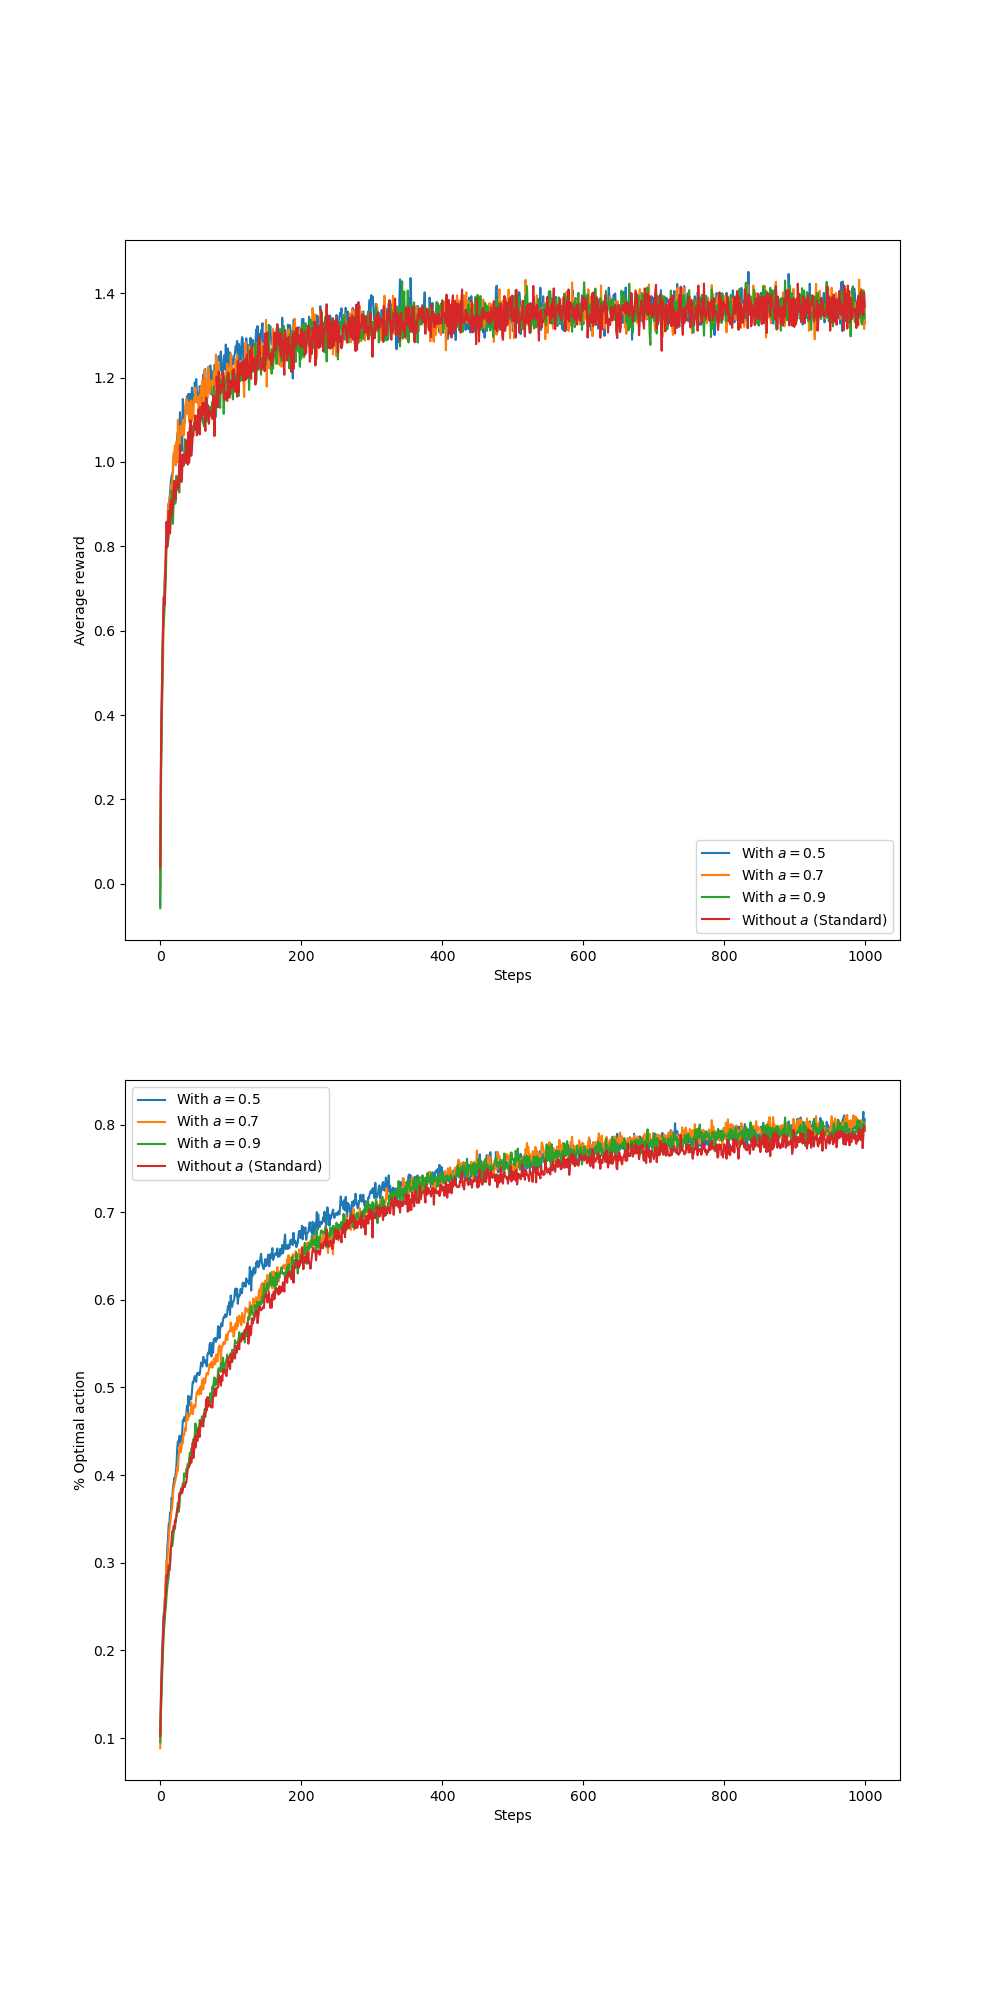
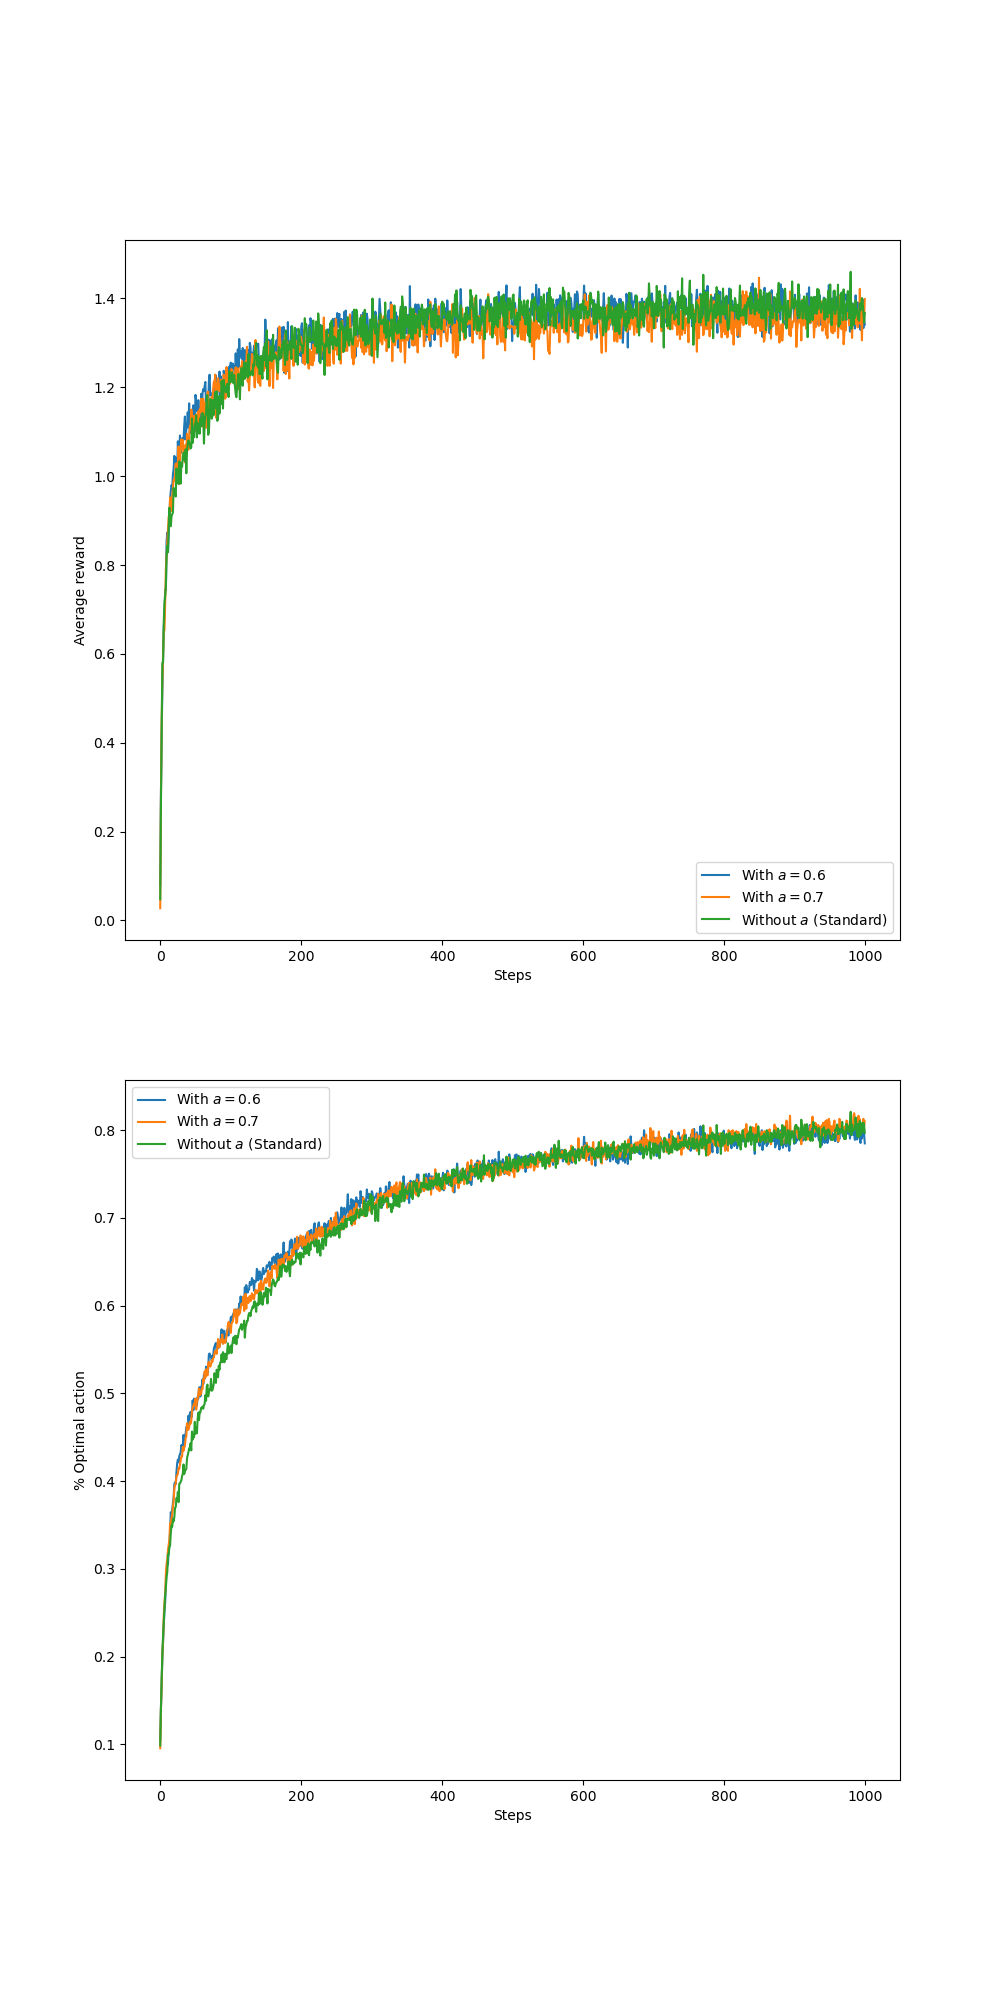
final commit

diff --git a/bandit_model.py b/bandit_model.py
@@ -58,6 +58,7 @@ class Bandit:
         self.time = 0
         self.average_reward = 0
 
+        # AAAA  ----- 
     def act(self):
         """
         Selects an action based on the current strategy.
@@ -83,7 +84,9 @@ class Bandit:
         best_action = np.random.choice(np.where(self.q_estimation == q_best)[0])
         return best_action
 
-    def step(self, action, external_reward=None):
+    def step(self, 
+             action, 
+             external_reward=None):
         """
         Takes an action and updates the bandit's state.
 
@@ -116,7 +119,9 @@ class Bandit:
         
         return reward
     
-def simulate(runs, time, bandits):
+def simulate(runs, 
+             time, 
+             bandits):
     """
     Simulates multiple runs of the bandit problem.
 
@@ -245,7 +250,7 @@ def UCB_bandit(runs=2000, time=1000):
     plt.savefig('UCB_vs_epsilon_greedy.png')
     plt.close()
 
-def study_a_impact(runs=2000, time=1000):
+def study_a_impact(runs=2000, time=5000):
     """
     Studies the impact of changing the parameter 'a' (generalized step size) on performance.
 
@@ -254,7 +259,7 @@ def study_a_impact(runs=2000, time=1000):
     runs : int, optional - Number of independent runs to simulate (default: 2000).
     time : int, optional - Number of steps per run (default: 1000).
     """
-    a_values = [0.5, 0.6, 0.7, 0.8, 0.9]  # Different values of 'a' to test
+    a_values = [0.1, 0.2, 0.6]  # Different values of 'a' to test
     bandits = [Bandit(epsilon=0.2, sample_averages=True, a=a) for a in a_values]
     best_action_counts, rewards = simulate(runs, time, bandits)
 
@@ -288,7 +293,7 @@ def compare_with_without_a(runs=2000, time=1000):
     runs : int, optional - Number of independent runs to simulate (default: 2000).
     time : int, optional - Number of steps per run (default: 1000).
     """
-    a_values = [0.5, 0.7, 0.9]  # Different values of 'a' to test
+    a_values = [0.6, 0.7]  # Different values of 'a' to test
     bandits_with_a = [Bandit(epsilon=0.1, sample_averages=True, a=a) for a in a_values]
     bandit_without_a = Bandit(epsilon=0.1, sample_averages=True, a=1.0)  # Standard sample average (a = 1)
     bandits = bandits_with_a + [bandit_without_a]
@@ -321,6 +326,6 @@ if __name__ == '__main__':
     # action_reward_distribution()
     # explore_vs_exploit()
     # initial_value_check()
-    UCB_bandit()
-    study_a_impact()
+    # UCB_bandit()
+    # study_a_impact()
     compare_with_without_a()
